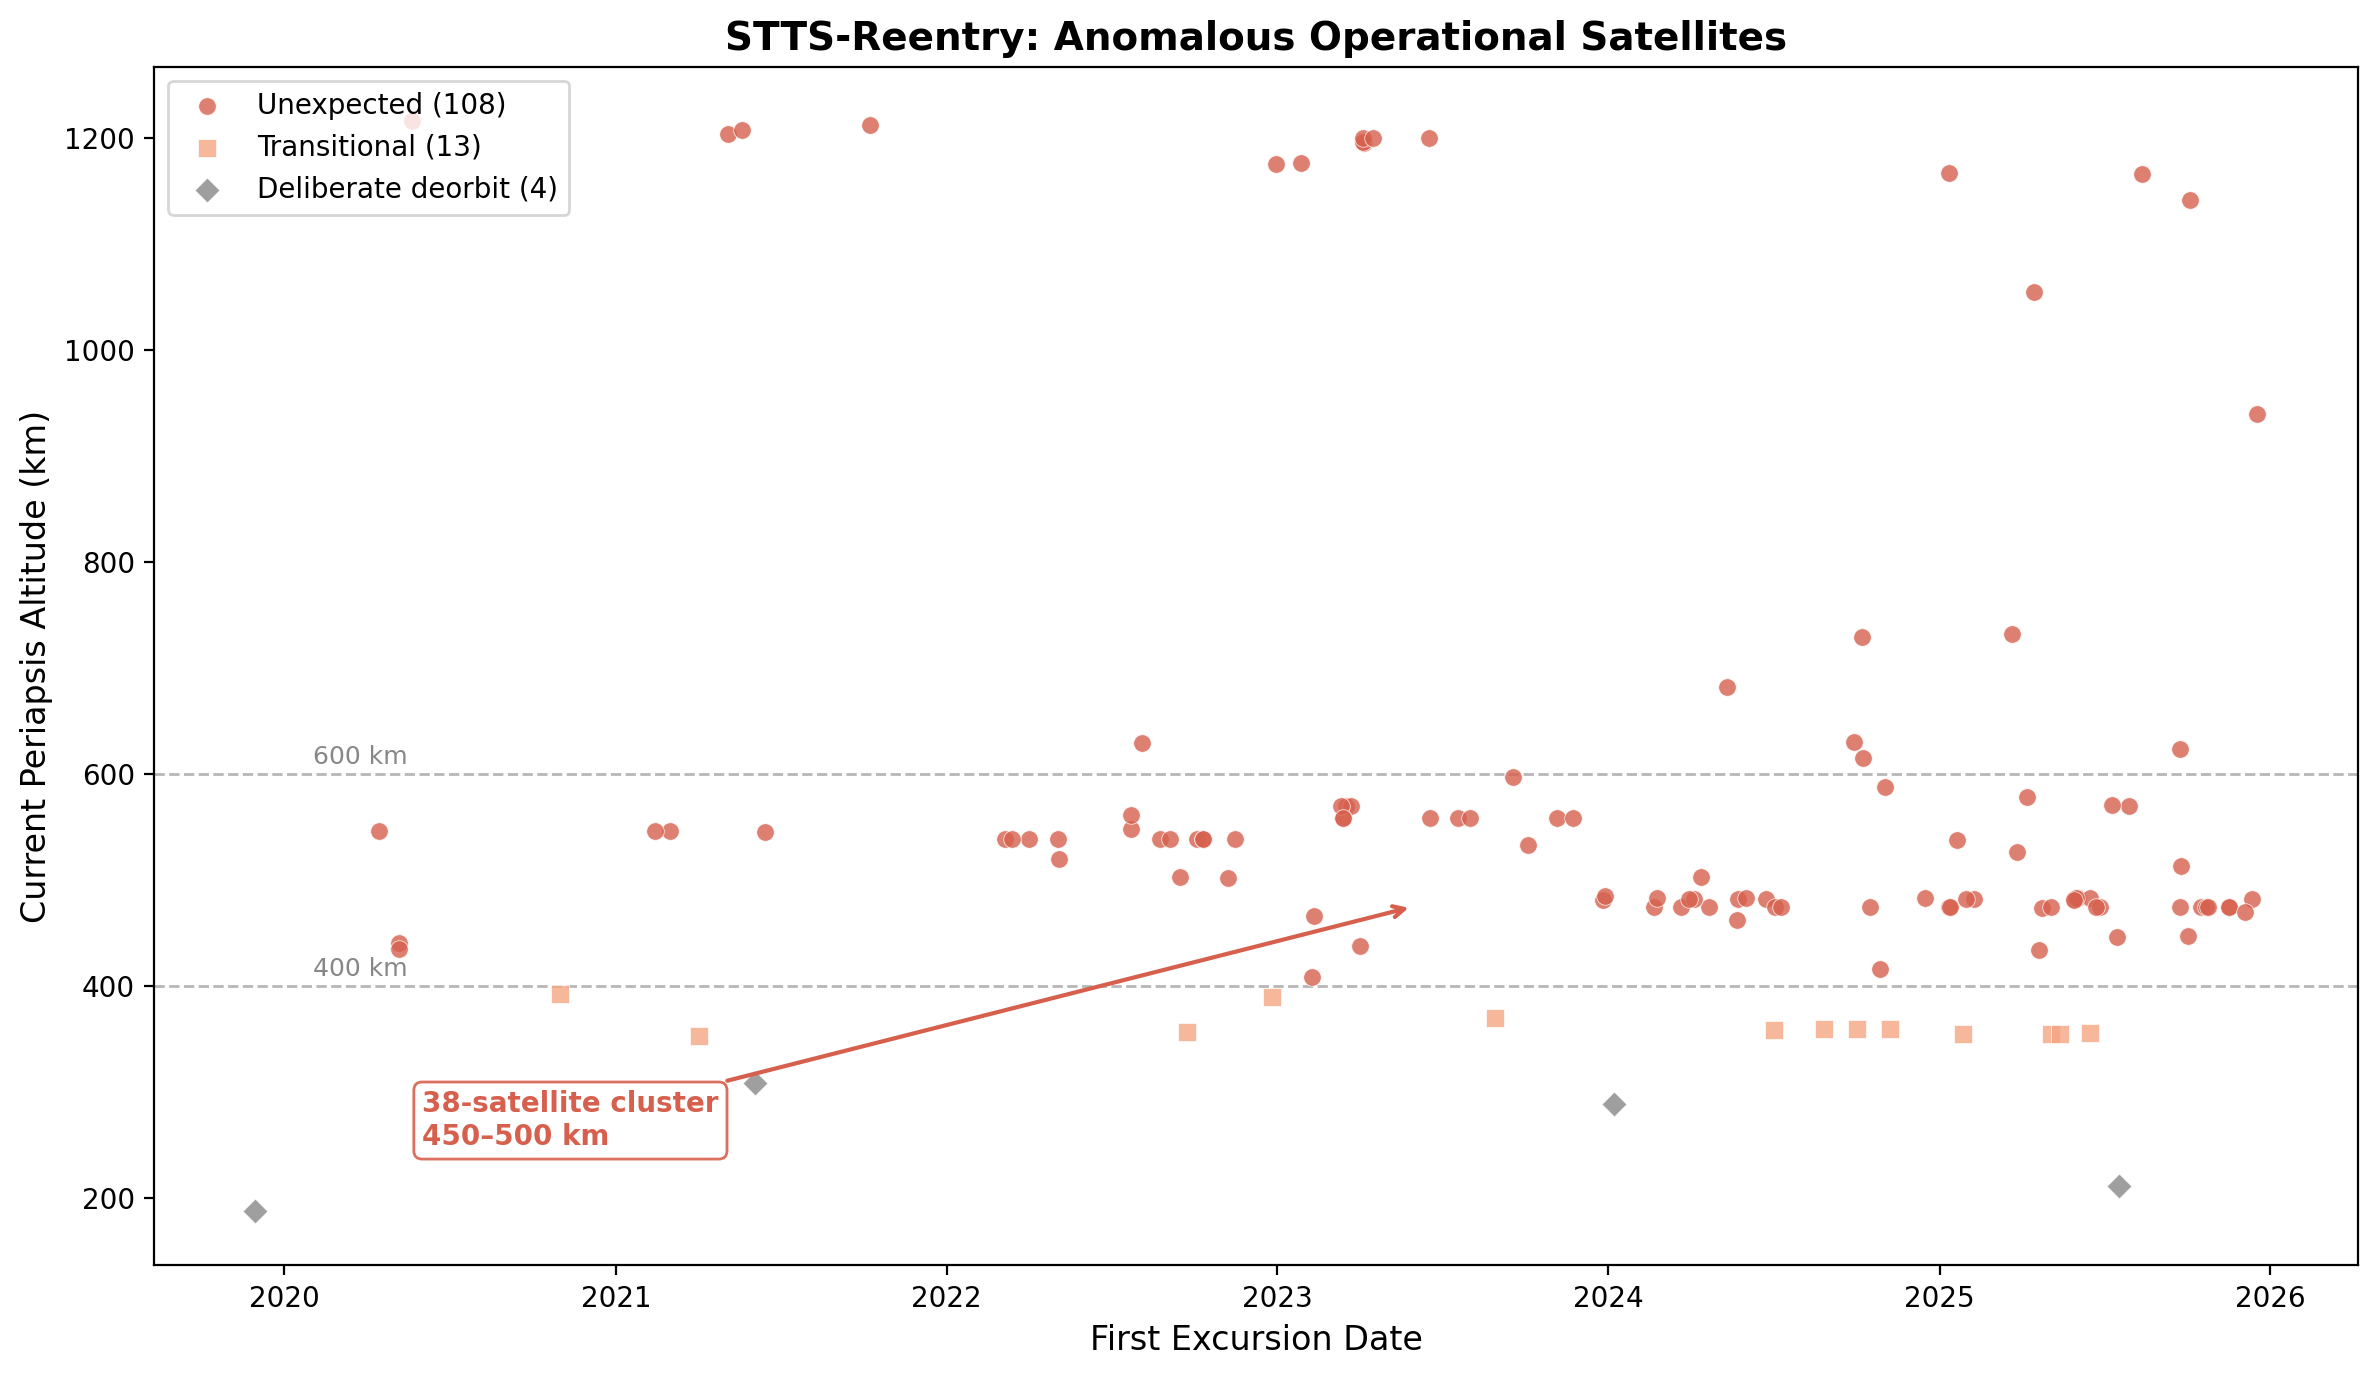
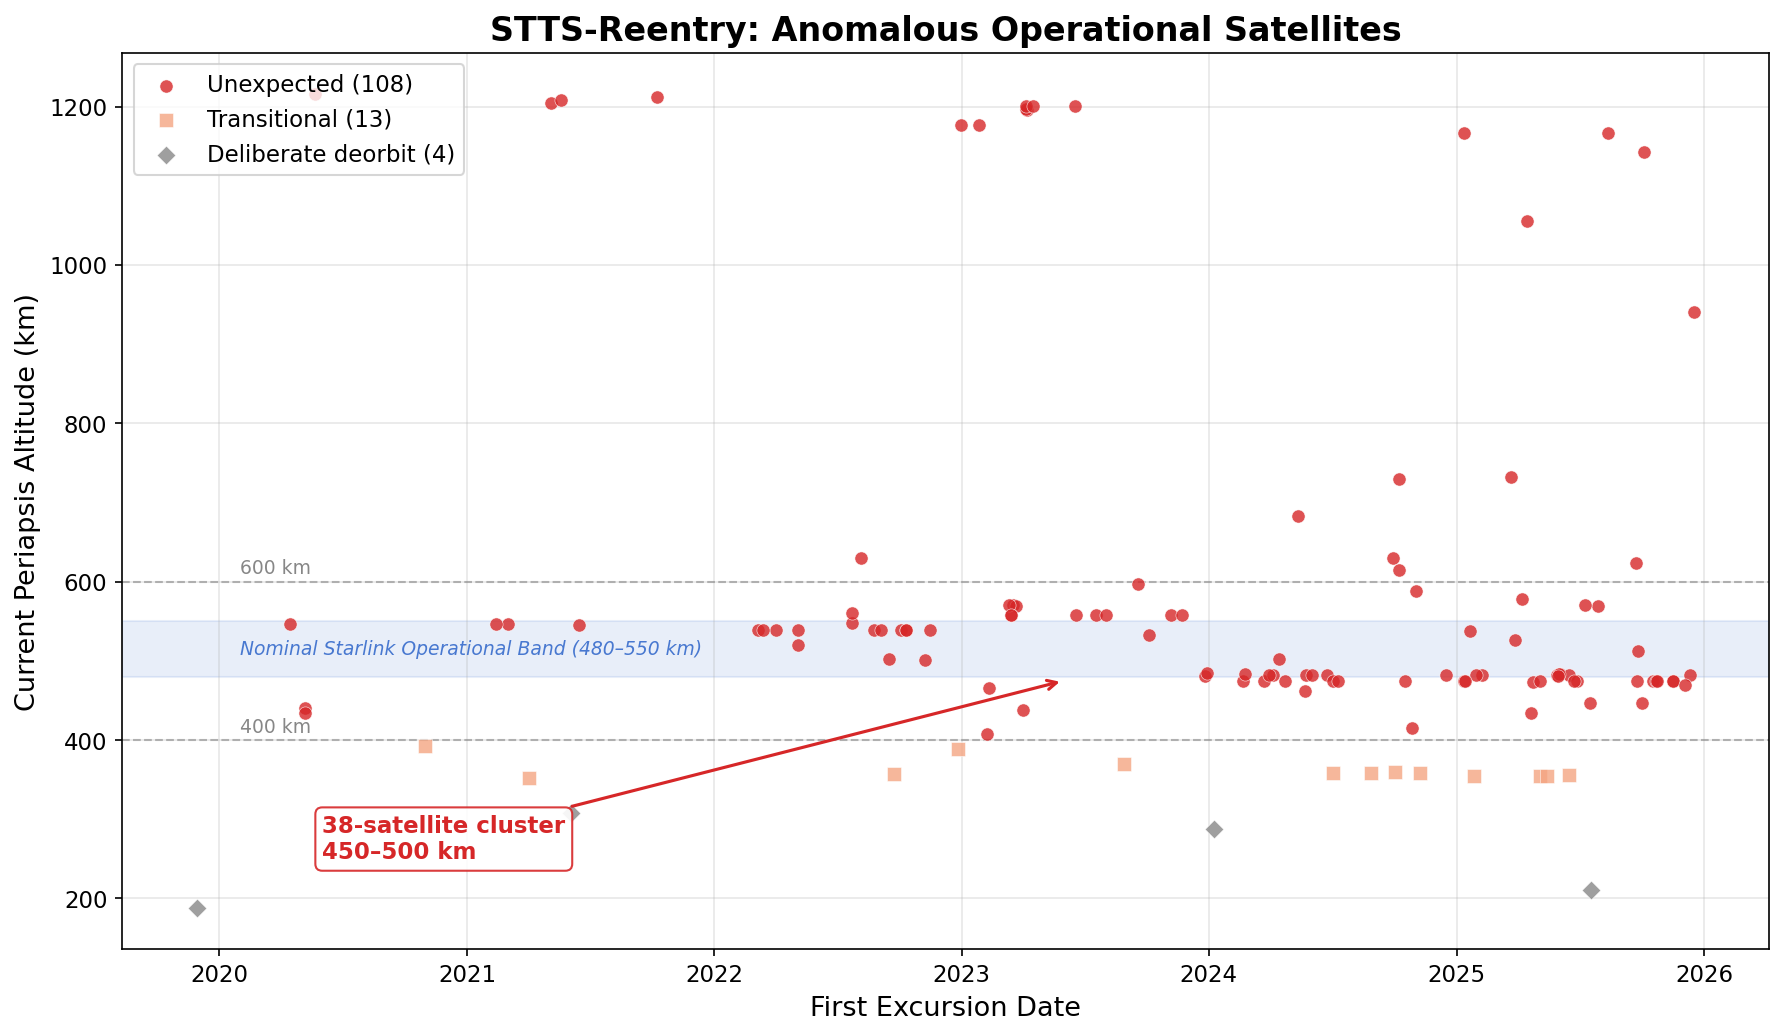
Normalize plot styles and add nominal altitude band to anomalous satellites

diff --git a/results/reentry/plots/generate_plots.py b/results/reentry/plots/generate_plots.py
@@ -36,11 +36,25 @@ RESULTS = Path(__file__).resolve().parent.parent
 PLOTS = RESULTS / "plots"
 PLOTS.mkdir(parents=True, exist_ok=True)
 
-# ── Color scheme ─────────────────────────────────────────────
-BLUE_NOM = "#2166ac"       # nominal trajectories
-RED_REENTRY = "#d6604d"    # reentry-like trajectories
+# ── Shared style ──────────────────────────────────────────────
+STYLE = {
+    'figure_size': (12, 7),
+    'title_fontsize': 16,
+    'title_fontweight': 'bold',
+    'label_fontsize': 13,
+    'annotation_fontsize': 11,
+    'dpi': 150,
+    'reentry_color': '#d62728',
+    'nominal_color': '#4878d0',
+    'solar_color': '#2ca02c',
+    'grid_alpha': 0.3,
+}
+
+# ── Color scheme (derived from STYLE) ────────────────────────
+BLUE_NOM = STYLE['nominal_color']
+RED_REENTRY = STYLE['reentry_color']
 ORANGE_TRANS = "#f4a582"   # transitional
-GREEN_SC25 = "#1b7837"     # solar cycle correlation
+GREEN_SC25 = STYLE['solar_color']
 GRAY_REF = "#878787"       # reference lines
 DARK_TEXT = "#1a1a1a"
 
@@ -63,7 +77,7 @@ def plot_basin_separation():
           f"median precursor: {np.median(pre_d):.6f}")
     print(f"  V1 separation: {sep:.1f}x")
 
-    fig, ax = plt.subplots(figsize=(10, 6))
+    fig, ax = plt.subplots(figsize=STYLE['figure_size'])
 
     all_d = np.concatenate([nom_d, pre_d])
     bins = np.logspace(
@@ -83,11 +97,12 @@ def plot_basin_separation():
 
     ax.set_xscale("log")
     ax.set_yscale("log")
-    ax.set_xlabel("k-NN Distance to Failure Basin", fontsize=12)
-    ax.set_ylabel("Window Count", fontsize=12)
+    ax.set_xlabel("k-NN Distance to Failure Basin", fontsize=STYLE['label_fontsize'])
+    ax.set_ylabel("Window Count", fontsize=STYLE['label_fontsize'])
     ax.set_title("STTS-Reentry: Nominal vs Precursor Basin Distance",
-                 fontsize=14, fontweight="bold")
-    ax.legend(fontsize=11, loc="upper left")
+                 fontsize=STYLE['title_fontsize'], fontweight=STYLE['title_fontweight'])
+    ax.legend(fontsize=STYLE['annotation_fontsize'], loc="upper left")
+    ax.grid(True, alpha=STYLE['grid_alpha'], which="both")
 
     nom_med = np.median(nom_d)
     pre_med = np.median(pre_d)
@@ -103,10 +118,10 @@ def plot_basin_separation():
                   edgecolor=GRAY_REF, alpha=0.9),
     )
 
-    ax.tick_params(labelsize=10)
+    ax.tick_params(labelsize=STYLE['annotation_fontsize'])
     fig.tight_layout()
     outpath = PLOTS / "basin_separation.png"
-    fig.savefig(outpath, dpi=200, bbox_inches="tight")
+    fig.savefig(outpath, dpi=STYLE['dpi'], bbox_inches="tight")
     plt.close(fig)
     print(f"  Saved {outpath}")
 
@@ -135,7 +150,13 @@ def plot_anomalous_satellites():
     )
     print(f"  450-500 km cluster: {cluster_count} satellites")
 
-    fig, ax = plt.subplots(figsize=(12, 7))
+    fig, ax = plt.subplots(figsize=STYLE['figure_size'])
+
+    # Nominal Starlink operational band
+    ax.axhspan(480, 550, alpha=0.12, color=BLUE_NOM, zorder=1)
+    ax.text(datetime(2020, 2, 1), 515,
+            "Nominal Starlink Operational Band (480\u2013550 km)",
+            fontsize=9, color=BLUE_NOM, va="center", style="italic")
 
     categories = [
         (cat["unexpected"], RED_REENTRY, f"Unexpected ({n_unexpected})", "o"),
@@ -161,23 +182,24 @@ def plot_anomalous_satellites():
         f"{cluster_count}-satellite cluster\n450\u2013500 km",
         xy=(datetime(2023, 6, 1), 475), xycoords="data",
         xytext=(datetime(2020, 6, 1), 250),
-        fontsize=10, fontweight="bold", color=RED_REENTRY,
+        fontsize=STYLE['annotation_fontsize'], fontweight="bold", color=RED_REENTRY,
         arrowprops=dict(arrowstyle="->", color=RED_REENTRY, lw=1.5),
         bbox=dict(boxstyle="round,pad=0.3", facecolor="white",
                   edgecolor=RED_REENTRY, alpha=0.9),
     )
 
-    ax.set_xlabel("First Excursion Date", fontsize=12)
-    ax.set_ylabel("Current Periapsis Altitude (km)", fontsize=12)
+    ax.set_xlabel("First Excursion Date", fontsize=STYLE['label_fontsize'])
+    ax.set_ylabel("Current Periapsis Altitude (km)", fontsize=STYLE['label_fontsize'])
     ax.set_title("STTS-Reentry: Anomalous Operational Satellites",
-                 fontsize=14, fontweight="bold")
-    ax.legend(fontsize=10, loc="upper left")
+                 fontsize=STYLE['title_fontsize'], fontweight=STYLE['title_fontweight'])
+    ax.legend(fontsize=STYLE['annotation_fontsize'], loc="upper left")
+    ax.grid(True, alpha=STYLE['grid_alpha'])
     ax.xaxis.set_major_formatter(mdates.DateFormatter("%Y"))
     ax.xaxis.set_major_locator(mdates.YearLocator())
-    ax.tick_params(labelsize=10)
+    ax.tick_params(labelsize=STYLE['annotation_fontsize'])
     fig.tight_layout()
     outpath = PLOTS / "anomalous_satellites.png"
-    fig.savefig(outpath, dpi=200, bbox_inches="tight")
+    fig.savefig(outpath, dpi=STYLE['dpi'], bbox_inches="tight")
     plt.close(fig)
     print(f"  Saved {outpath}")
 
@@ -207,21 +229,22 @@ def plot_sc25_correlation():
     print(f"  Spearman(year, onsets):  rho={rho_year:.3f}, p={p_year:.4f}")
     print(f"  Spearman(SSN, onsets):   rho={rho_ssn:.3f}, p={p_ssn:.4f}")
 
-    fig, ax1 = plt.subplots(figsize=(10, 6))
+    fig, ax1 = plt.subplots(figsize=STYLE['figure_size'])
 
     ax1.bar(years, onsets, color=RED_REENTRY, alpha=0.7, width=0.4,
             label="Excursion onsets", zorder=3)
-    ax1.set_xlabel("Year", fontsize=12)
-    ax1.set_ylabel("Excursion Onset Count", fontsize=12, color=RED_REENTRY)
-    ax1.tick_params(axis="y", labelcolor=RED_REENTRY, labelsize=10)
-    ax1.tick_params(axis="x", labelsize=10)
+    ax1.set_xlabel("Year", fontsize=STYLE['label_fontsize'])
+    ax1.set_ylabel("Excursion Onset Count", fontsize=STYLE['label_fontsize'], color=RED_REENTRY)
+    ax1.tick_params(axis="y", labelcolor=RED_REENTRY, labelsize=STYLE['annotation_fontsize'])
+    ax1.tick_params(axis="x", labelsize=STYLE['annotation_fontsize'])
     ax1.set_xticks(years)
+    ax1.grid(True, alpha=STYLE['grid_alpha'], axis="y")
 
     ax2 = ax1.twinx()
     ax2.plot(years, ssn, color=GREEN_SC25, linewidth=2.5, marker="o",
              markersize=8, label="Mean SSN (SILSO)", zorder=4)
-    ax2.set_ylabel("Annual Mean Sunspot Number", fontsize=12, color=GREEN_SC25)
-    ax2.tick_params(axis="y", labelcolor=GREEN_SC25, labelsize=10)
+    ax2.set_ylabel("Annual Mean Sunspot Number", fontsize=STYLE['label_fontsize'], color=GREEN_SC25)
+    ax2.tick_params(axis="y", labelcolor=GREEN_SC25, labelsize=STYLE['annotation_fontsize'])
 
     ax1.axvspan(2021.5, 2024.5, alpha=0.08, color=GREEN_SC25, zorder=1)
     ax1.text(2023.0, 2, "SC25 Rising Phase",
@@ -231,7 +254,7 @@ def plot_sc25_correlation():
     ax1.annotate(
         f"\u03c1 = {rho_year:.3f} (year vs onset, p={p_year:.3f})",
         xy=(0.50, 0.92), xycoords="axes fraction",
-        fontsize=16, fontweight="bold", color=DARK_TEXT,
+        fontsize=STYLE['title_fontsize'], fontweight="bold", color=DARK_TEXT,
         ha="center",
         bbox=dict(boxstyle="round,pad=0.4", facecolor="white",
                   edgecolor=GREEN_SC25, alpha=0.9),
@@ -246,15 +269,15 @@ def plot_sc25_correlation():
     )
 
     ax1.set_title("Excursion Onset Rate vs Solar Cycle 25",
-                   fontsize=14, fontweight="bold")
+                   fontsize=STYLE['title_fontsize'], fontweight=STYLE['title_fontweight'])
 
     lines1, labels1 = ax1.get_legend_handles_labels()
     lines2, labels2 = ax2.get_legend_handles_labels()
-    ax1.legend(lines1 + lines2, labels1 + labels2, fontsize=10, loc="upper left")
+    ax1.legend(lines1 + lines2, labels1 + labels2, fontsize=STYLE['annotation_fontsize'], loc="upper left")
 
     fig.tight_layout()
     outpath = PLOTS / "sc25_correlation.png"
-    fig.savefig(outpath, dpi=200, bbox_inches="tight")
+    fig.savefig(outpath, dpi=STYLE['dpi'], bbox_inches="tight")
     plt.close(fig)
     print(f"  Saved {outpath}")
 
@@ -277,7 +300,7 @@ def plot_lead_time():
     print(f"  Mean={stats['mean']}d, median={stats['median']}d, "
           f"min={stats['min']}d, max={stats['max']}d")
 
-    fig, ax = plt.subplots(figsize=(10, 6))
+    fig, ax = plt.subplots(figsize=STYLE['figure_size'])
 
     ax.hist(lead_times, bins=25, color=BLUE_NOM, alpha=0.7,
             edgecolor="white", linewidth=0.5)
@@ -291,20 +314,21 @@ def plot_lead_time():
         f"Mean lead time: {mean_lt:.0f} days\nbefore confirmed reentry",
         xy=(mean_lt, ymax * 0.85), xycoords="data",
         xytext=(mean_lt + 200, ymax * 0.70),
-        fontsize=13, fontweight="bold", color=DARK_TEXT,
+        fontsize=STYLE['annotation_fontsize'] + 2, fontweight="bold", color=DARK_TEXT,
         arrowprops=dict(arrowstyle="->", color=RED_REENTRY, lw=1.5),
         bbox=dict(boxstyle="round,pad=0.4", facecolor="white",
                   edgecolor=RED_REENTRY, alpha=0.9),
     )
 
-    ax.set_xlabel("Detection Lead Time (days)", fontsize=12)
-    ax.set_ylabel("Number of Satellites", fontsize=12)
+    ax.set_xlabel("Detection Lead Time (days)", fontsize=STYLE['label_fontsize'])
+    ax.set_ylabel("Number of Satellites", fontsize=STYLE['label_fontsize'])
     ax.set_title(f"STTS-Reentry: Detection Lead Time Distribution (n={len(lead_times)})",
-                 fontsize=14, fontweight="bold")
-    ax.tick_params(labelsize=10)
+                 fontsize=STYLE['title_fontsize'], fontweight=STYLE['title_fontweight'])
+    ax.grid(True, alpha=STYLE['grid_alpha'], axis="y")
+    ax.tick_params(labelsize=STYLE['annotation_fontsize'])
     fig.tight_layout()
     outpath = PLOTS / "lead_time_distribution.png"
-    fig.savefig(outpath, dpi=200, bbox_inches="tight")
+    fig.savefig(outpath, dpi=STYLE['dpi'], bbox_inches="tight")
     plt.close(fig)
     print(f"  Saved {outpath}")
 
